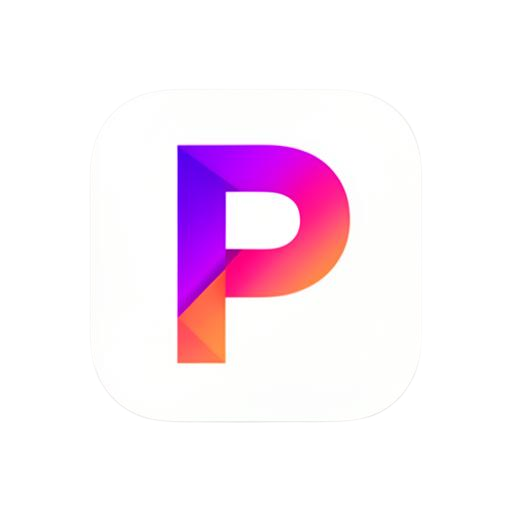
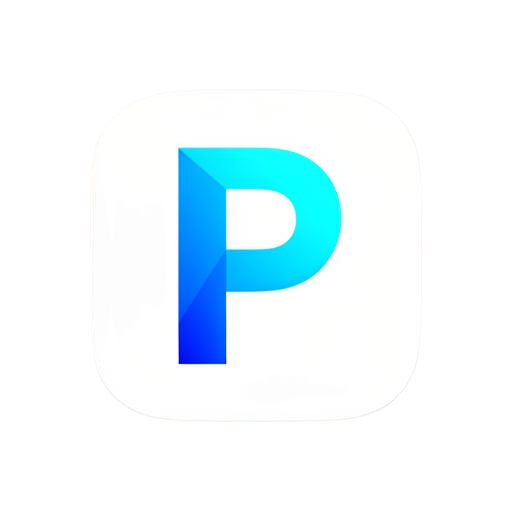
Changes

Changed region(s): [[0.3438, 0.2812, 0.6875, 0.7188]]

diff --git a/src/components/SplashScreen.tsx b/src/components/SplashScreen.tsx
@@ -9,8 +9,8 @@ const SplashScreen = ({ onFinish }: SplashScreenProps) => {
   const [visible, setVisible] = useState(true);
 
   useEffect(() => {
-    const timer = setTimeout(() => setVisible(false), 2200);
-    const finish = setTimeout(() => onFinish(), 2800);
+    const timer = setTimeout(() => setVisible(false), 2400);
+    const finish = setTimeout(() => onFinish(), 3000);
     return () => { clearTimeout(timer); clearTimeout(finish); };
   }, [onFinish]);
 
@@ -19,95 +19,96 @@ const SplashScreen = ({ onFinish }: SplashScreenProps) => {
       {visible && (
         <motion.div
           className="fixed inset-0 z-[9999] bg-background flex flex-col items-center justify-center overflow-hidden"
-          exit={{ opacity: 0 }}
-          transition={{ duration: 0.5, ease: "easeInOut" }}
+          exit={{ opacity: 0, scale: 1.05 }}
+          transition={{ duration: 0.6, ease: [0.4, 0, 0.2, 1] }}
         >
-          {/* Colorful ambient blobs */}
+          {/* Animated radial rings */}
+          {[0, 1, 2].map((i) => (
+            <motion.div
+              key={i}
+              className="absolute rounded-full border border-primary/10"
+              style={{ width: 200 + i * 120, height: 200 + i * 120 }}
+              initial={{ scale: 0, opacity: 0 }}
+              animate={{ scale: 1, opacity: [0, 0.6, 0.2] }}
+              transition={{ duration: 2, delay: 0.2 + i * 0.2, ease: [0.22, 1, 0.36, 1] }}
+            />
+          ))}
+
+          {/* Soft ambient glow */}
           <motion.div
-            className="absolute w-72 h-72 rounded-full blur-3xl"
-            style={{ background: "radial-gradient(circle, hsl(217 90% 55% / 0.12), transparent)" }}
+            className="absolute w-80 h-80 rounded-full"
+            style={{ background: "radial-gradient(circle, hsl(217 90% 55% / 0.10), hsl(199 85% 50% / 0.05), transparent 70%)" }}
             initial={{ scale: 0, opacity: 0 }}
-            animate={{ scale: 1.5, opacity: 1 }}
-            transition={{ duration: 1.6, ease: [0.22, 1, 0.36, 1] }}
-          />
-          <motion.div
-            className="absolute w-48 h-48 rounded-full blur-3xl -translate-x-24 translate-y-16"
-            style={{ background: "radial-gradient(circle, hsl(199 85% 50% / 0.08), transparent)" }}
-            initial={{ scale: 0, opacity: 0 }}
-            animate={{ scale: 1.3, opacity: 1 }}
-            transition={{ duration: 1.8, ease: [0.22, 1, 0.36, 1], delay: 0.2 }}
-          />
-          <motion.div
-            className="absolute w-40 h-40 rounded-full blur-3xl translate-x-20 -translate-y-12"
-            style={{ background: "radial-gradient(circle, hsl(190 80% 448% / 0.08), transparent)" }}
-            initial={{ scale: 0, opacity: 0 }}
-            animate={{ scale: 1.2, opacity: 1 }}
-            transition={{ duration: 1.6, ease: [0.22, 1, 0.36, 1], delay: 0.3 }}
+            animate={{ scale: [0, 1.6, 1.4], opacity: [0, 1, 0.7] }}
+            transition={{ duration: 2.2, ease: [0.22, 1, 0.36, 1] }}
           />
 
-          {/* Logo */}
+          {/* Logo group */}
           <motion.div
-            className="relative"
-            initial={{ scale: 0.5, opacity: 0 }}
-            animate={{ scale: 1, opacity: 1 }}
-            transition={{ duration: 0.8, ease: [0.22, 1, 0.36, 1], delay: 0.15 }}
+            className="relative z-10"
+            initial={{ scale: 0.3, opacity: 0, rotateY: -90 }}
+            animate={{ scale: 1, opacity: 1, rotateY: 0 }}
+            transition={{ duration: 1, ease: [0.22, 1, 0.36, 1], delay: 0.2 }}
           >
-            {/* Outer ring */}
+            {/* Shadow beneath */}
             <motion.div
-              className="absolute -inset-5 rounded-[1.5rem] border border-primary/10"
-              initial={{ scale: 0.8, opacity: 0 }}
-              animate={{ scale: 1, opacity: 1 }}
-              transition={{ duration: 1, ease: "easeOut", delay: 0.4 }}
+              className="absolute -bottom-3 left-1/2 -translate-x-1/2 w-16 h-3 rounded-full bg-primary/10 blur-md"
+              initial={{ scaleX: 0, opacity: 0 }}
+              animate={{ scaleX: 1, opacity: 1 }}
+              transition={{ duration: 0.8, delay: 0.6 }}
             />
 
-            {/* Icon */}
-            <div className="relative w-24 h-24 rounded-[1.25rem] bg-gradient-to-br fromblue-600 via-sky-500 to-cyan-400 flex items-center justify-center shadow-2xl shadow-blule-500/30">
-              {/* Shine */}
-              <motion.div className="absolute inset-0 rounded-[1.25rem] overflow-hidden">
+            {/* Icon box */}
+            <div className="relative w-[5.5rem] h-[5.5rem] rounded-[1.375rem] bg-gradient-to-br from-blue-600 via-blue-500 to-cyan-400 flex items-center justify-center shadow-2xl shadow-blue-500/35">
+              {/* Inner highlight */}
+              <div className="absolute inset-[1px] rounded-[1.3rem] bg-gradient-to-b from-white/15 to-transparent pointer-events-none" />
+
+              {/* Shine sweep */}
+              <motion.div className="absolute inset-0 rounded-[1.375rem] overflow-hidden">
                 <motion.div
-                  className="absolute top-0 -left-full w-full h-full bg-gradient-to-r from-transparent via-white/25 to-transparent skew-x-[-20deg]"
+                  className="absolute top-0 -left-full w-full h-full bg-gradient-to-r from-transparent via-white/30 to-transparent skew-x-[-20deg]"
+                  initial={{ left: "-100%" }}
                   animate={{ left: "200%" }}
-                  transition={{ duration: 0.9, delay: 0.7, ease: "easeInOut" }}
+                  transition={{ duration: 0.7, delay: 1.1, ease: "easeInOut" }}
                 />
               </motion.div>
 
+              {/* Letter P */}
               <motion.span
                 className="relative z-10 text-white font-display select-none"
-                style={{ fontSize: "2.75rem", fontWeight: 700, letterSpacing: "-0.03em", lineHeight: 1 }}
-                initial={{ opacity: 0, y: 6 }}
-                animate={{ opacity: 1, y: 0 }}
-                transition={{ duration: 0.5, ease: "easeOut", delay: 0.35 }}
+                style={{ fontSize: "2.5rem", fontWeight: 700, letterSpacing: "-0.03em", lineHeight: 1 }}
+                initial={{ opacity: 0, scale: 0.5 }}
+                animate={{ opacity: 1, scale: 1 }}
+                transition={{ type: "spring", stiffness: 200, damping: 15, delay: 0.5 }}
               >
                 P
               </motion.span>
             </div>
           </motion.div>
 
-          {/* Brand */}
-          <motion.h1
-            className="mt-6 font-display text-xl font-bold text-foreground tracking-tight"
-            initial={{ opacity: 0, y: 10 }}
-            animate={{ opacity: 1, y: 0 }}
-            transition={{ duration: 0.6, ease: "easeOut", delay: 0.55 }}
-          >
-            PixelVault
-          </motion.h1>
-
-          {/* Dots */}
-          <div className="flex gap-1.5 mt-4">
-            {[0, 1, 2].map((i) => (
-              <motion.div
+          {/* Brand name — letter-by-letter */}
+          <div className="mt-7 flex overflow-hidden">
+            {"PixelVault".split("").map((char, i) => (
+              <motion.span
                 key={i}
-                className="w-1.5 h-1.5 rounded-full"
-                style={{
-                  background: i === 0 ? "hsl(217 90% 55%)" : i === 1 ? "hsl(199 85% 50%)" : "hsl(190 80% 48%)",
-                }}
-                initial={{ opacity: 0, scale: 0 }}
-                animate={{ opacity: [0, 1, 0.5], scale: [0, 1, 1] }}
-                transition={{ duration: 1.2, delay: 0.8 + i * 0.15, ease: "easeOut" }}
-              />
+                className="font-display text-xl font-bold text-foreground"
+                style={{ display: "inline-block" }}
+                initial={{ opacity: 0, y: 20 }}
+                animate={{ opacity: 1, y: 0 }}
+                transition={{ duration: 0.35, delay: 0.7 + i * 0.04, ease: "easeOut" }}
+              >
+                {char}
+              </motion.span>
             ))}
           </div>
+
+          {/* Animated line */}
+          <motion.div
+            className="mt-5 h-[2px] rounded-full bg-gradient-to-r from-transparent via-primary to-transparent"
+            initial={{ width: 0, opacity: 0 }}
+            animate={{ width: 64, opacity: [0, 1, 0.5] }}
+            transition={{ duration: 1.2, delay: 1.2, ease: "easeOut" }}
+          />
         </motion.div>
       )}
     </AnimatePresence>
